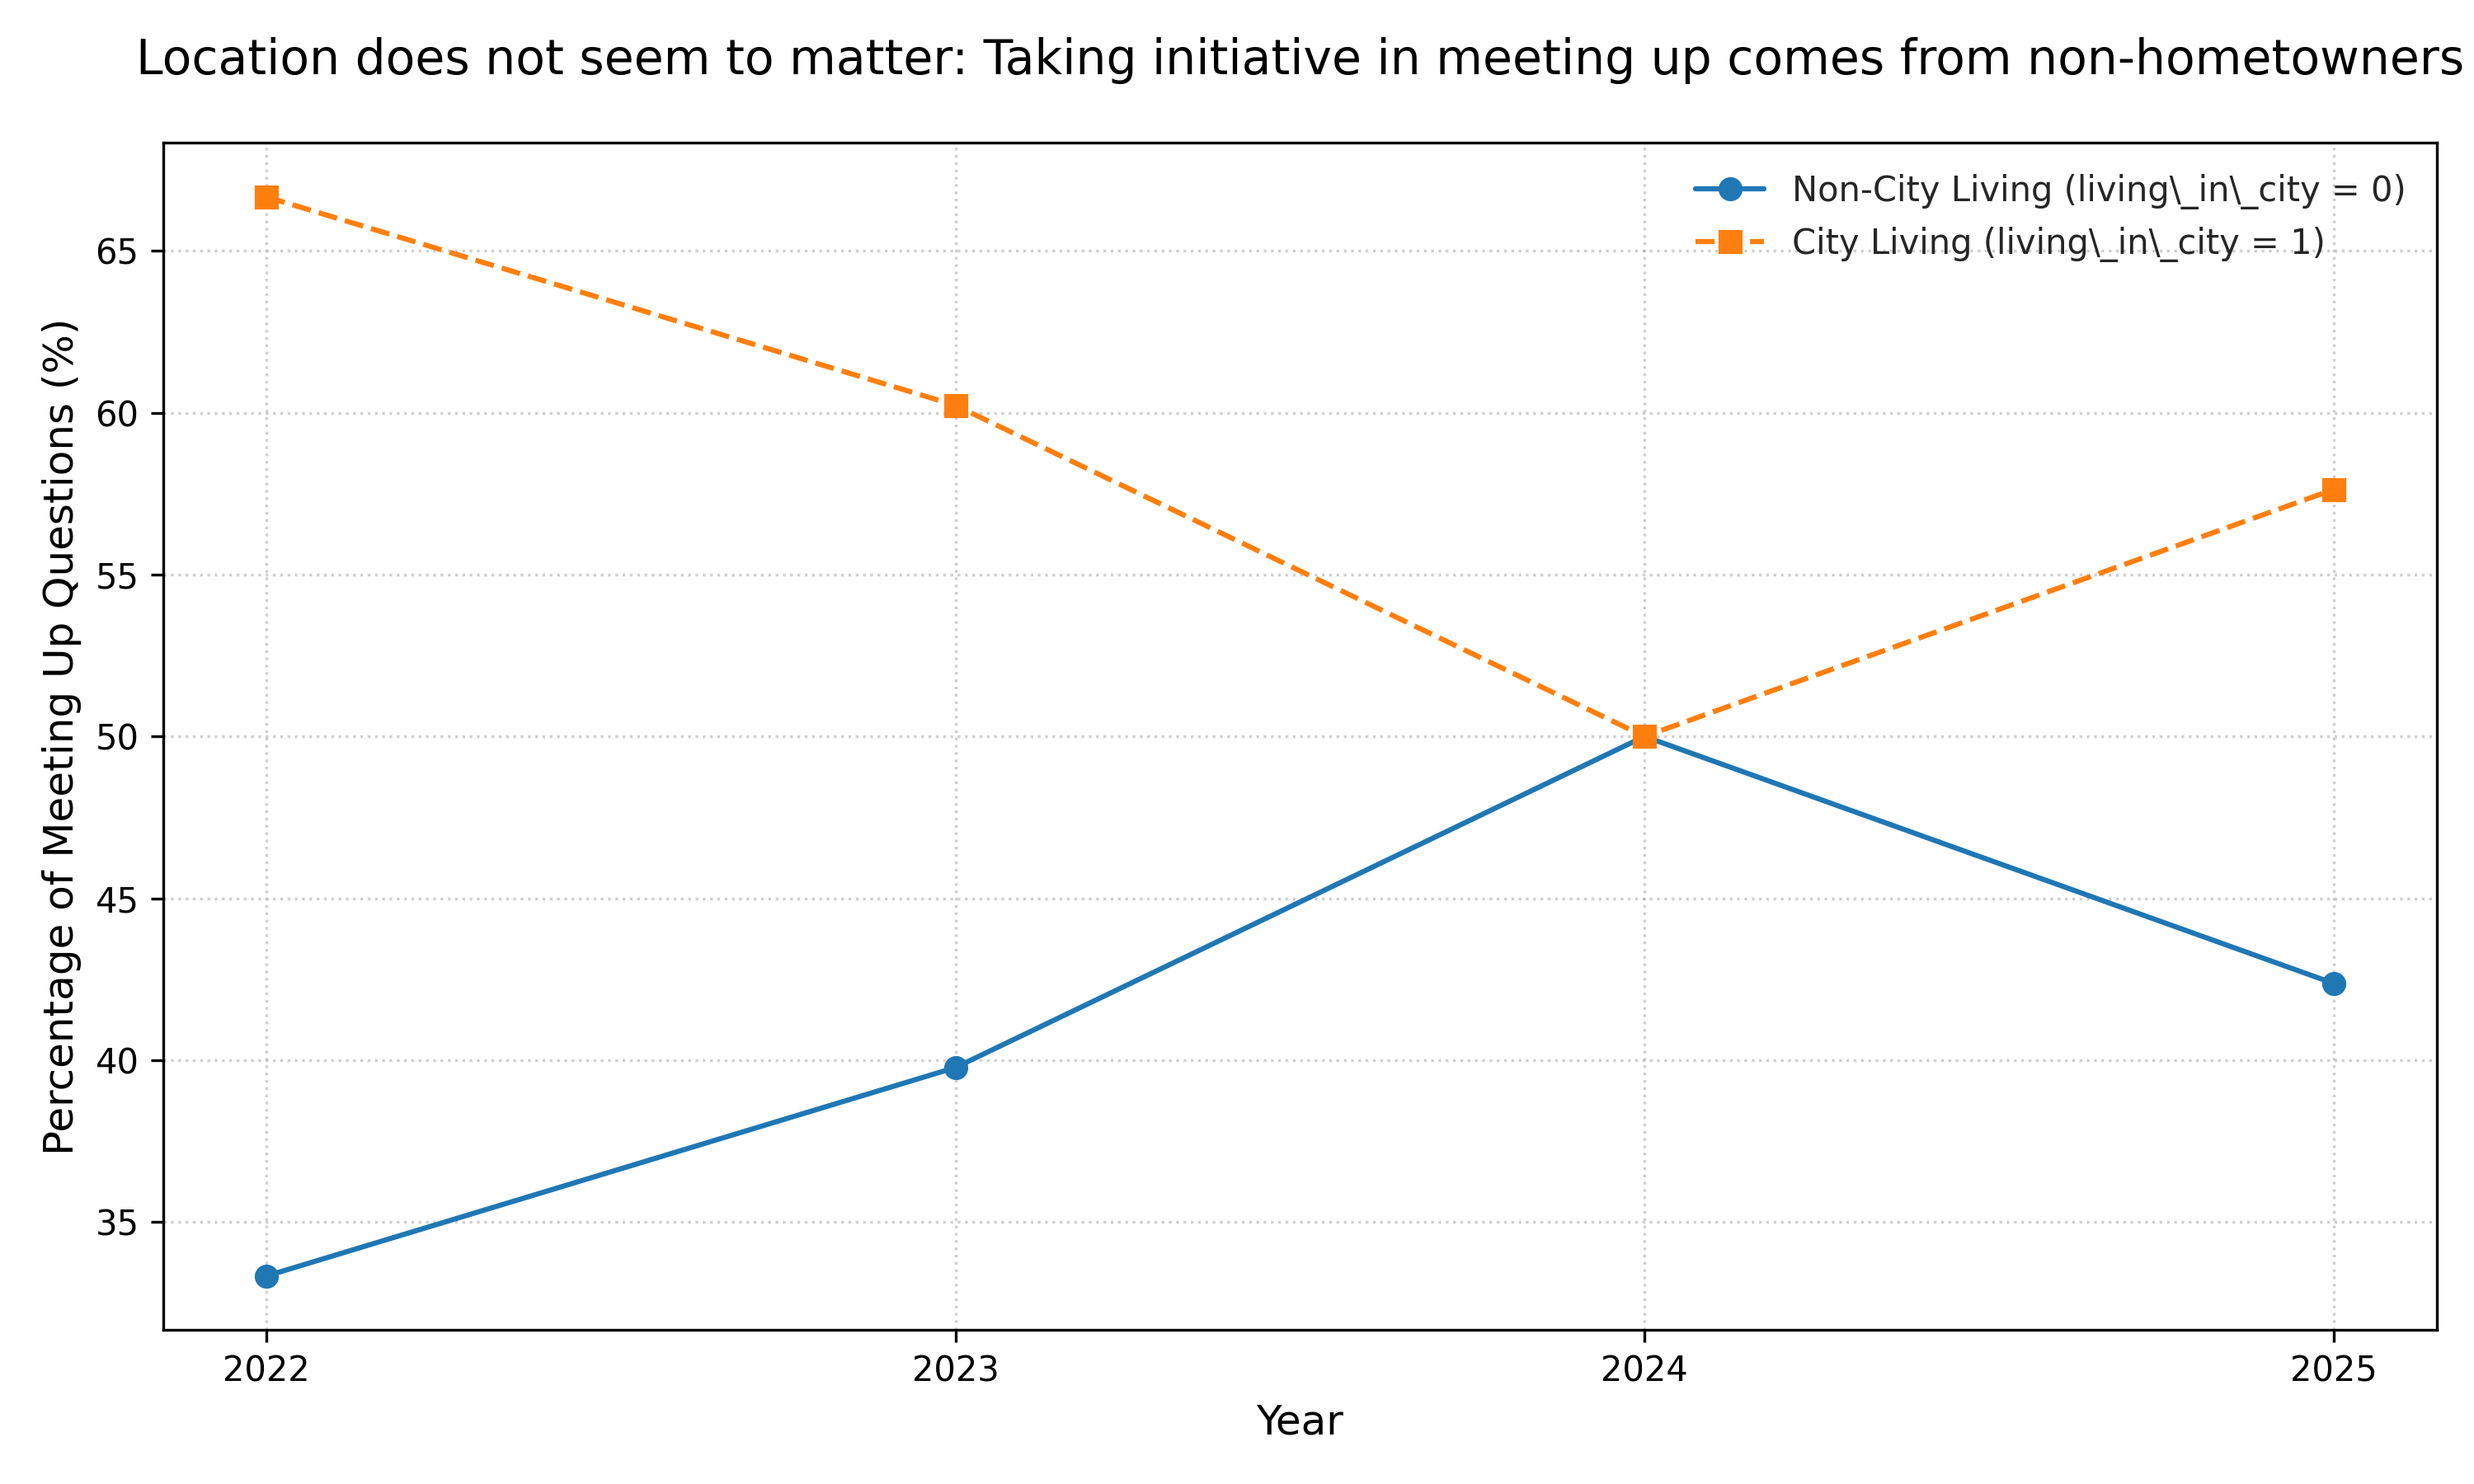
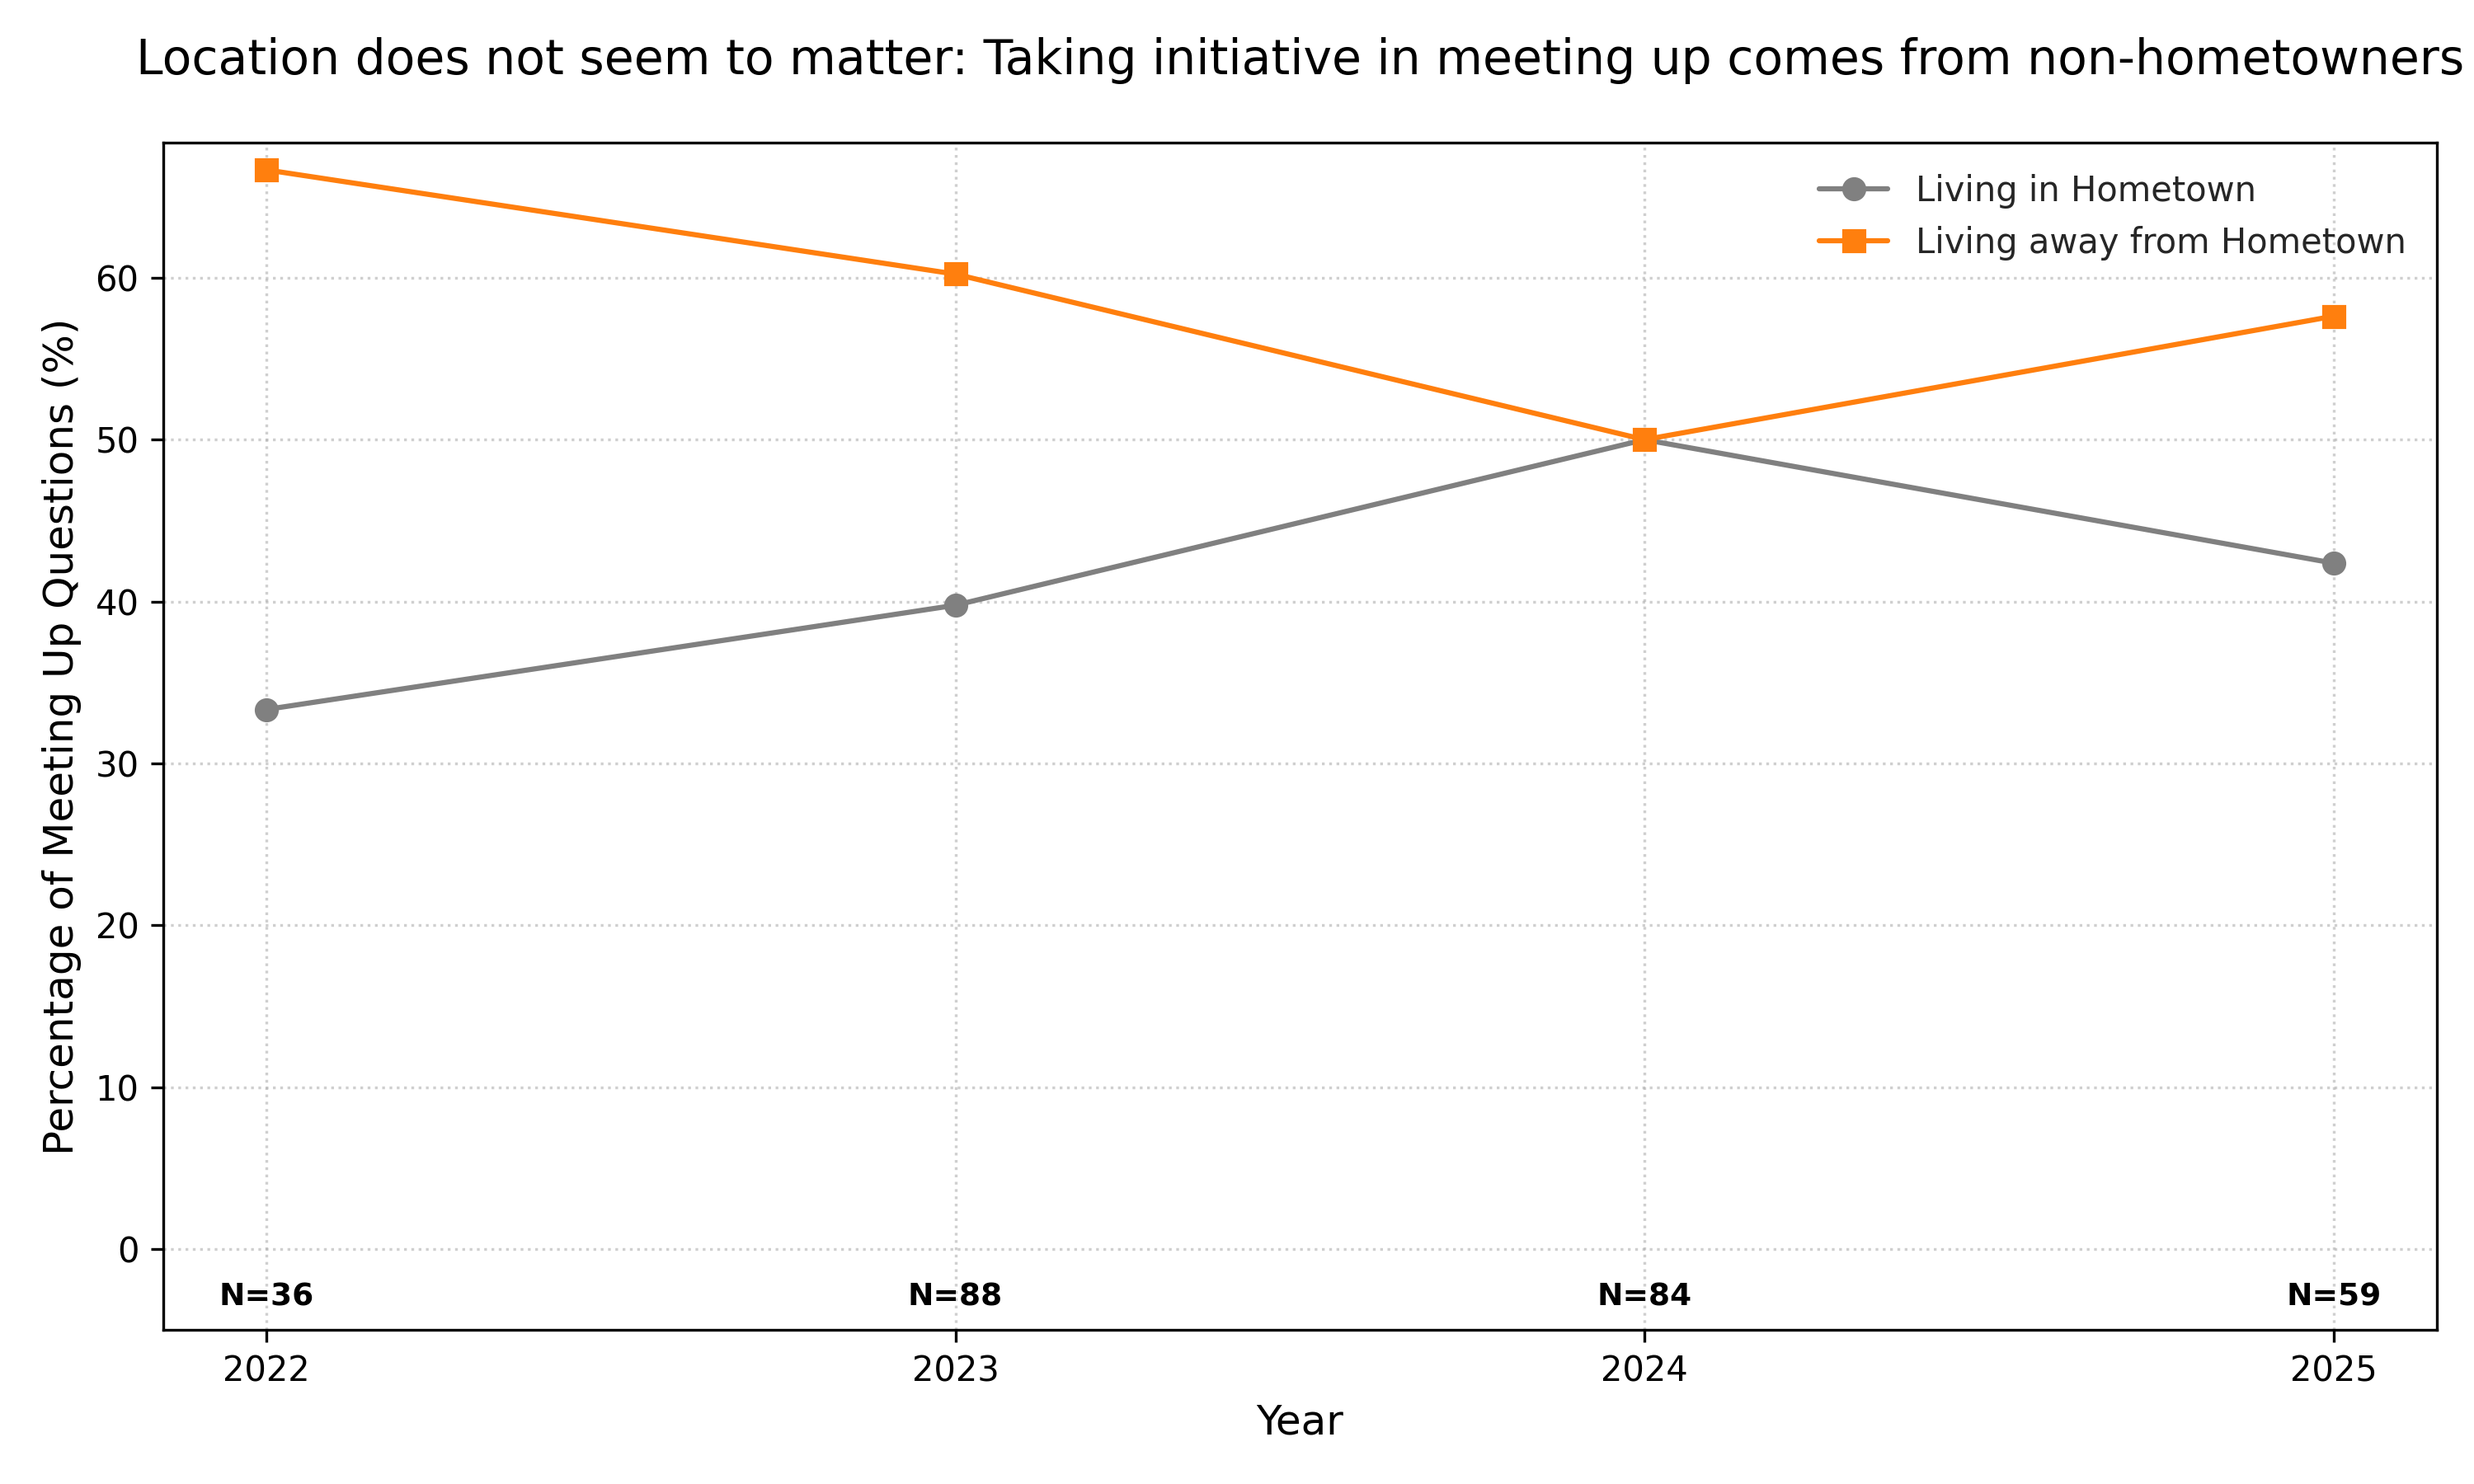
color updates

diff --git a/src/dav_bas_hv/categories_graph.py b/src/dav_bas_hv/categories_graph.py
@@ -47,6 +47,13 @@ class MeetingUpQuestionsAnalyzer:
             (df['is_question'] == 1) & (df['mentions_meet_up'] == 1)
         ).astype(int)
 
+        # --- Calculate Global Statistics for Title ---
+        total_texts = len(df)
+        total_meeting_up_questions_N = df['is_meeting_up_question'].sum()
+        
+        # Calculate percentage of ALL texts that are meeting-up questions
+        total_percentage = (total_meeting_up_questions_N / total_texts) * 100 if total_texts > 0 else 0
+
         # 2. Group by both 'year' and the condition ('living_in_city') and sum the questions
         yearly_counts = df.groupby(['year', 'living_in_city'])[
             'is_meeting_up_question'
@@ -114,10 +121,10 @@ class MeetingUpQuestionsAnalyzer:
         # Plot the City Living percentage
         ax.plot(
             yearly_stats['year'],
-            yearly_stats['pct_city_living'],
+            yearly_stats['pct_away_from_hometown_living'],
             label='Living away from Hometown',
             marker='s',
-            linestyle='--',
+            linestyle='-',
             color='#ff7f0e' # Orange
         )
 
@@ -130,6 +137,25 @@ class MeetingUpQuestionsAnalyzer:
         # Ensure X-axis ticks are integers for years
         # Use a list of year values to set the ticks
         ax.set_xticks(yearly_stats['year'].astype(int).tolist())
+
+        # 1. Adjust the y-axis minimum to create space for the N counts
+        # Set new bottom limit to allow space for text.
+        ax.set_ylim(bottom=-5) 
+        
+        # 2. Loop through years and annotate the total count
+        for x, n in zip(yearly_stats['year'], yearly_stats['total_meeting_up_questions']):
+            # Position the text at y=-3 (within the new margin).
+            # We format N with a comma for better readability.
+            ax.text(
+                x, 
+                -3, 
+                f"N={n:,.0f}", 
+                ha='center',
+                va='center',
+                fontsize=9,
+                color='black',
+                weight='bold'
+            )
 
         # Add a legend
         ax.legend(loc='upper right', fontsize=10)

diff --git a/src/dav_bas_hv/distribution_graph.py b/src/dav_bas_hv/distribution_graph.py
@@ -43,7 +43,7 @@ class DistributionAnalyzer:
         fig, ax = plt.subplots(figsize=(10, 6))
 
         # Use seaborn for KDE to get the smooth distribution curves
-        sns.kdeplot(non_city_dwellers, color='grey', fill=True, alpha=0.5, label='Living in hometown', ax=ax)
+        sns.kdeplot(non_city_dwellers, color='limegreen', fill=True, alpha=0.5, label='Living in hometown', ax=ax)
         sns.kdeplot(city_dwellers, color='darkorange', fill=True, alpha=0.5, label='Away from hometown', ax=ax)
 
         # Apply titles and labels

diff --git a/src/dav_bas_hv/time_series.py b/src/dav_bas_hv/time_series.py
@@ -82,7 +82,7 @@ class DualAxisTrendsAnalyzer:
         # Plot raw data (solid line)
         ax1.plot(
             trends_df.index, trends_df['message_count'], color=color_volume, 
-            linewidth=1.5, linestyle='-', alpha=0.8, label='Volume (Raw)'
+            linewidth=1.5, linestyle='-', alpha=0.8, label='Monthly Volume Messages'
         )
 
         # Plot trend line (dashed line)
